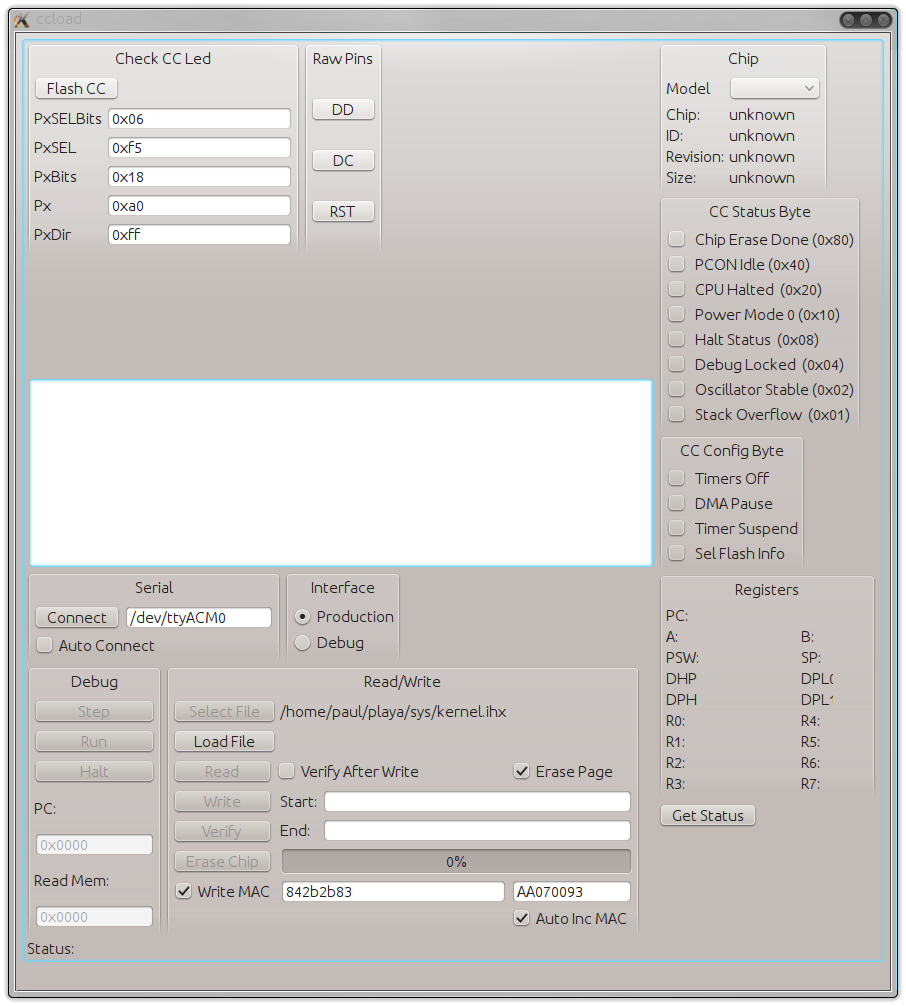
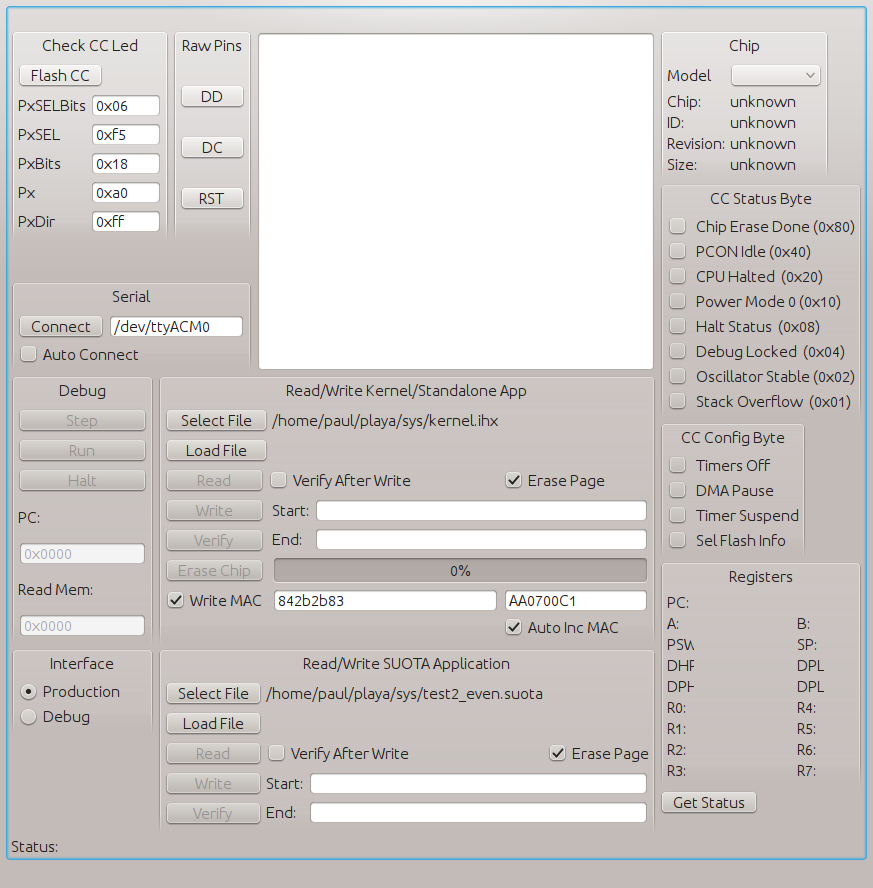
documentation for the latest release of the programmer GUI

diff --git a/docs/programming.html b/docs/programming.html
@@ -36,6 +36,7 @@
 <li><a href="#mem">Memory organisation</a>
 <li><a href="#compiler">Compiler Issues</a>
 <li><a href="#build">Build system</a>
+<li><a href="#gui">The Programmer GUI</a>
 <li><a href="#sa">Standalone applications</a>
 <li><a href="#net">Internet access</a>
 </ul>
@@ -610,6 +611,62 @@ into the correct place. But the world isn't perfect, sometimes a node may miss a
 <p>The top level Makefile already does all this for you, no need to actually write this stuff yourself.</p>
 
 <p>You have a couple of options, you can create a new subdirectory in the build tree and put your app in there, but we recommend that for a SUOTA app you put our release tree somewhere, and make a separate development tree elsewhere. Start by copying the Makefile from the top of the release tree, and the samples app sample_app/app.c into your new directory and edit them to suit - instructions on how do do this are contained in the Makefile itself. Type 'make' to build a kernel and program it into your board. Then, with  a serial gateway attached type "make push" to build an app and push it to a board.</p>
+
+<a name="gui"><h2>The Programmer GUI</h2></a>
+
+<p>The GUI program we use for programming has lots of options - here's a quick rundown:</p<
+
+<img src="s5.png" width="900">
+
+<p>The "Connect" button opens the serial device specified, halts the CPU, and extracts information about its model and memory.</p>
+
+<p>There are two select/load/read/write sections - the upper one is for loading the .ihx (Intel hex format) files used for the kernel and standalone apps, this code is usually loaded at the start of memory at 0, the lower one is for the .suota files (in a proprietary binary format) used for SUOTA  applications loaded in high memory.</p>
+
+<p>Typically you use the "Select" button to choose a file, then "Load", "Write", and "Run" every time you compile a new version of your program.</p>
+
+<ul>
+<li>Select - chooses the file that is loaded by the "Load" button
+<li>Load - loads the currently selected file
+	<ul>
+	<li>Start - shows the start address of the code to be loaded
+	<li>End - shows the end address
+	</ul>
+<li>Write - copies the data to the CPU
+	<ul>
+	<li>Verify after write - verifies the data - this is very slow, only enable it if you think you have a problem
+	<li>Erase Page  - erases flash page by page as your data is written - this should normally be set
+	</ul>
+<li>Read - this doesn't work well yet, and is disabled
+<li>Erase Chip - erases the entire chip, unlocks it if it was locked (use this before you load a new kernel if you also want any incompatible SUOTA applications, compiled to work with older kernel versions, removed).
+<li>Write Mac - (only applies to Kernels or Standalone Apps) - if checked a MAC will be inserted low in memory - there are two text boxes here - put an 8 hex digit (32-bit) value in each to represent a MAC address, if "Auto Inc MAC: is checked the right hand value will be incremented on every write
+</ul>
+
+<p>Debugging:</p>
+<ul>
+<li>Run - starts a cpu
+<li>Step - single steps 
+<li>Halt - stops the cpu
+<li>PC - the location to start at
+<li>Registers - current register state
+</ul>
+
+<p>Status:</p>
+<ul>
+<li>data transmitted from the CPU uart is displayed in the central text window
+<li>Chip - the currently sensed chip - data loaded at 'Connect'
+<li>CC status byte - current CPU status
+<li>CC config byte - more current CPU status
+<li>Status - system state
+</ul>
+
+<p>Sections seldom used:</p>
+<ul>
+<li>Flash CC - used for setting chip options, in particular locking it down
+<li>Raw Pins - poke the raw debug interface pins
+<li>Interface/production - used for some older programmers
+</ul>
+
+<p>The GUI program remembers a much of the information you enter when it is changed - you can safely run multiple copies of the GUI but, since this default data is shared, you need to be careful as you may not get the default values you expect when you start.</p>
 
 <a name="sa"><h2>Standalone applications</h2></a>
 

diff --git a/docs/gettingstarted.html b/docs/gettingstarted.html
@@ -78,7 +78,7 @@
 <li>Windows: we have no specific windows instructions - if you have problems please get in touch, if you fix problems also lets us know how you got things working so we can update this document
 </ul>
 
-<p>Run the app from src/ccload, it's useful to run it from a shell as it will log any characters a development board sends on its serial port</p>
+<p>Run the app from src/ccload</p>
 
 <p>You should see something like:</p>
 <a href-"s1.png"><img src="s1.png" width="800"></a>
@@ -96,11 +96,14 @@
 
 <a href-"s2.png"><img src="s2.png" width="800"></a>
 
-<p>Note the 'Connect' button has changed to 'Disconnect', the 'Chip' panel in the top right contains information about the chip found on the development board, the CC Status Byte tells you the development system's current state</p>
+<p>Note that the 'Connect' button has changed to 'Disconnect', the 'Chip' panel in the top right contains information about the chip found on the development board, the CC Status Byte tells you the development system's current state</p>
+
+<p>In the programming GUI there are two sets of boxes for loading code - one for loading kernels and standalone apps and one for .loading SUOTA applications - for this example we're only using the one labelled "Read/Write Kernel/Standalone App"</p>
 
 <p>Now's a good time to set up automatic MAC generation - check the "Write MAC" box, next to it are 2 text boxes put 8 hex digits into each box, check the "AutoincMAC" box, now every time you write a kernel it will get a unique MAC address assigned to the board. How should you find a unique MAC address to use - I steal one from an existing device that works in another domain: ethernet or wifi - put the first 8 hex digits of your laptop's ethernet mac address into the left hand box, and the last 4 hex digits, followed by "0000" into the right hand box.</p>
 
 <a name="load"><h2>Loading a Kernel</h2></a>
+
 
 <p>Press the "Select File" button, it will pop up a file open dialog box, navigate to the place you built the kernel and choose the kernel.ihx file. The press the "load" button to load the kernel into the GUI program - it will look like:</p>
 <a href-"s3.png"><img src="s3.png" width="800"></a>
